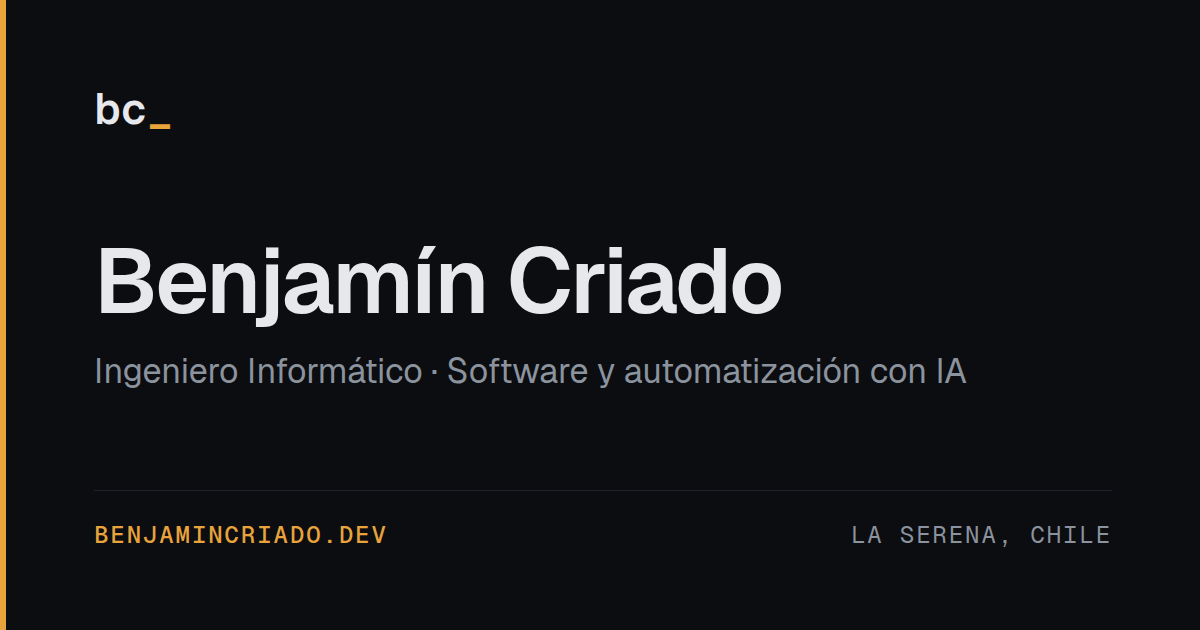
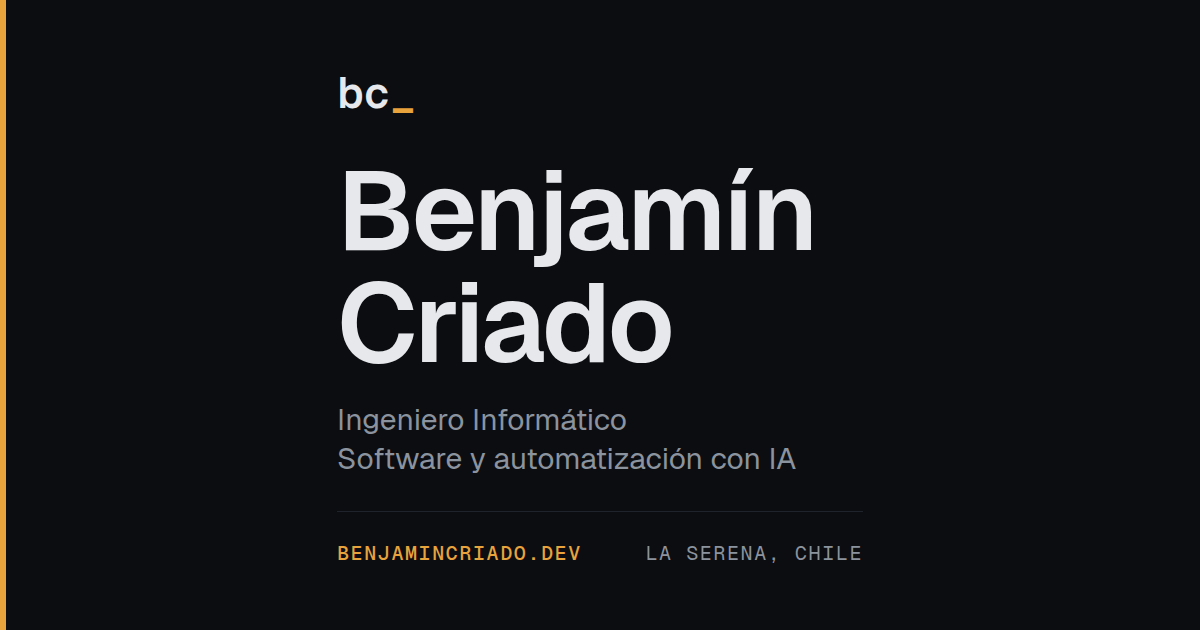
feat(seo): imagen social legible en el recorte cuadrado

diff --git a/tools/og.html b/tools/og.html
@@ -28,11 +28,19 @@
         box-sizing: border-box;
         width: 1200px;
         height: 630px;
-        padding: 80px 88px;
+        display: flex;
+        justify-content: center;
+        box-shadow: inset 6px 0 0 #e8a33d;
+      }
+      /* Columna cuadrada centrada: resiste el recorte 1:1 de las miniaturas */
+      .col {
+        box-sizing: border-box;
+        width: 630px;
+        height: 630px;
+        padding: 64px 52px;
         display: flex;
         flex-direction: column;
         justify-content: space-between;
-        border-left: 6px solid #e8a33d;
       }
       .mark {
         font-family: 'Geist Mono', monospace;
@@ -43,14 +51,15 @@
       .mark span { color: #e8a33d; }
       h1 {
         margin: 0 0 22px;
-        font-size: 92px;
+        font-size: 112px;
         font-weight: 600;
         letter-spacing: -0.025em;
         line-height: 1;
       }
       p {
         margin: 0;
-        font-size: 34px;
+        font-size: 30px;
+        line-height: 1.3;
         color: #8b939e;
       }
       .foot {
@@ -60,7 +69,7 @@
         padding-top: 28px;
         border-top: 1px solid #1f242c;
         font-family: 'Geist Mono', monospace;
-        font-size: 24px;
+        font-size: 20px;
         letter-spacing: 0.08em;
         text-transform: uppercase;
         color: #8b939e;
@@ -70,12 +79,15 @@
   </head>
   <body>
     <div class="card">
-      <div class="mark">bc<span>_</span></div>
-      <div>
-        <h1>Benjamín Criado</h1>
-        <p>Ingeniero Informático · Software y automatización con IA</p>
+      <div class="col">
+        <div class="mark">bc<span>_</span></div>
+        <div>
+          <h1>Benjamín<br />Criado</h1>
+          <p>Ingeniero Informático</p>
+          <p>Software y automatización con IA</p>
+        </div>
+        <div class="foot"><b>benjamincriado.dev</b><span>La Serena, Chile</span></div>
       </div>
-      <div class="foot"><b>benjamincriado.dev</b><span>La Serena, Chile</span></div>
     </div>
   </body>
 </html>
